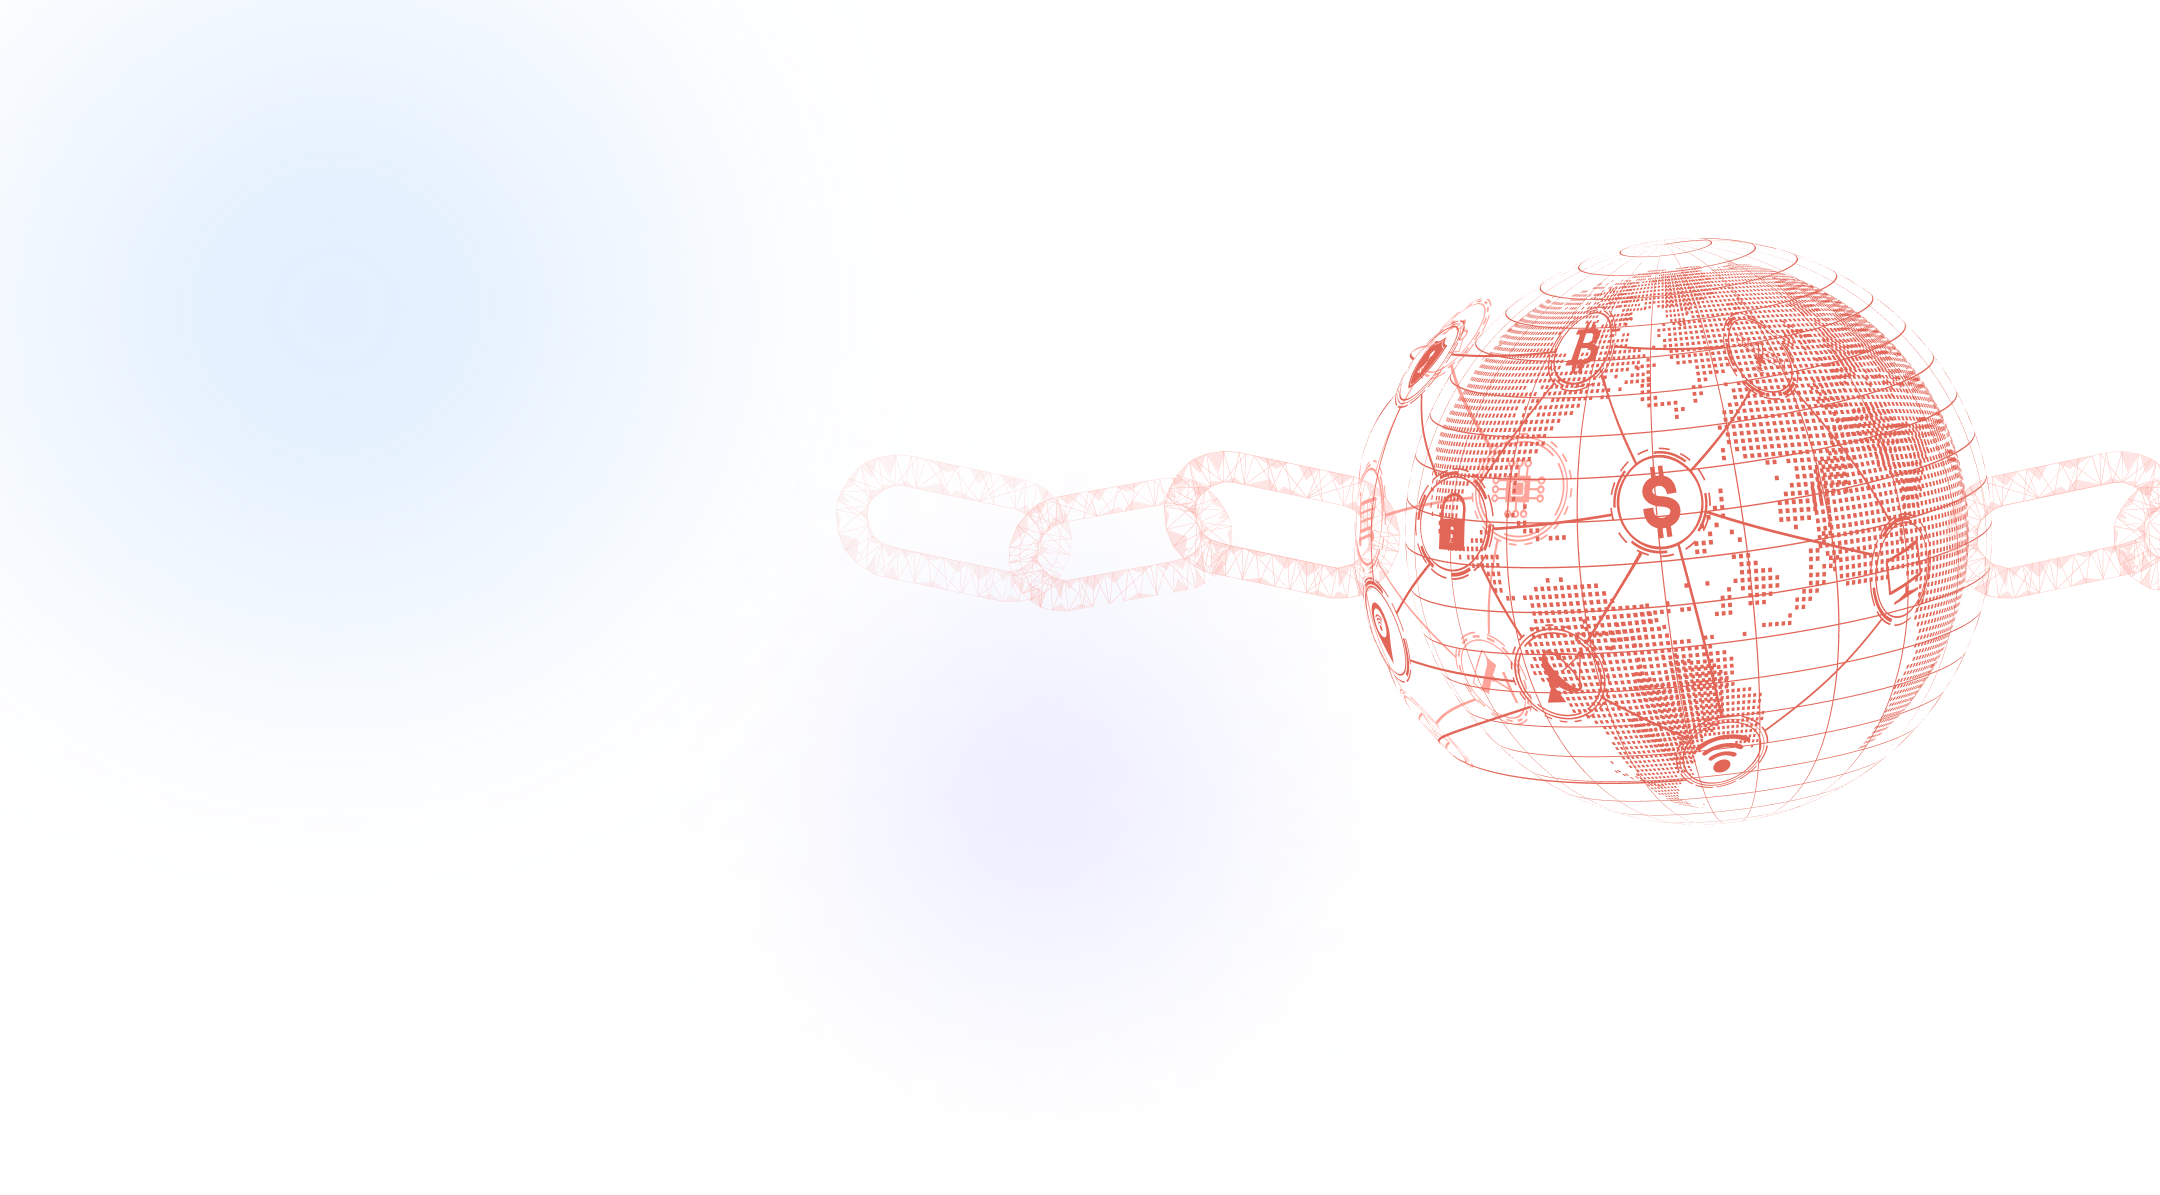
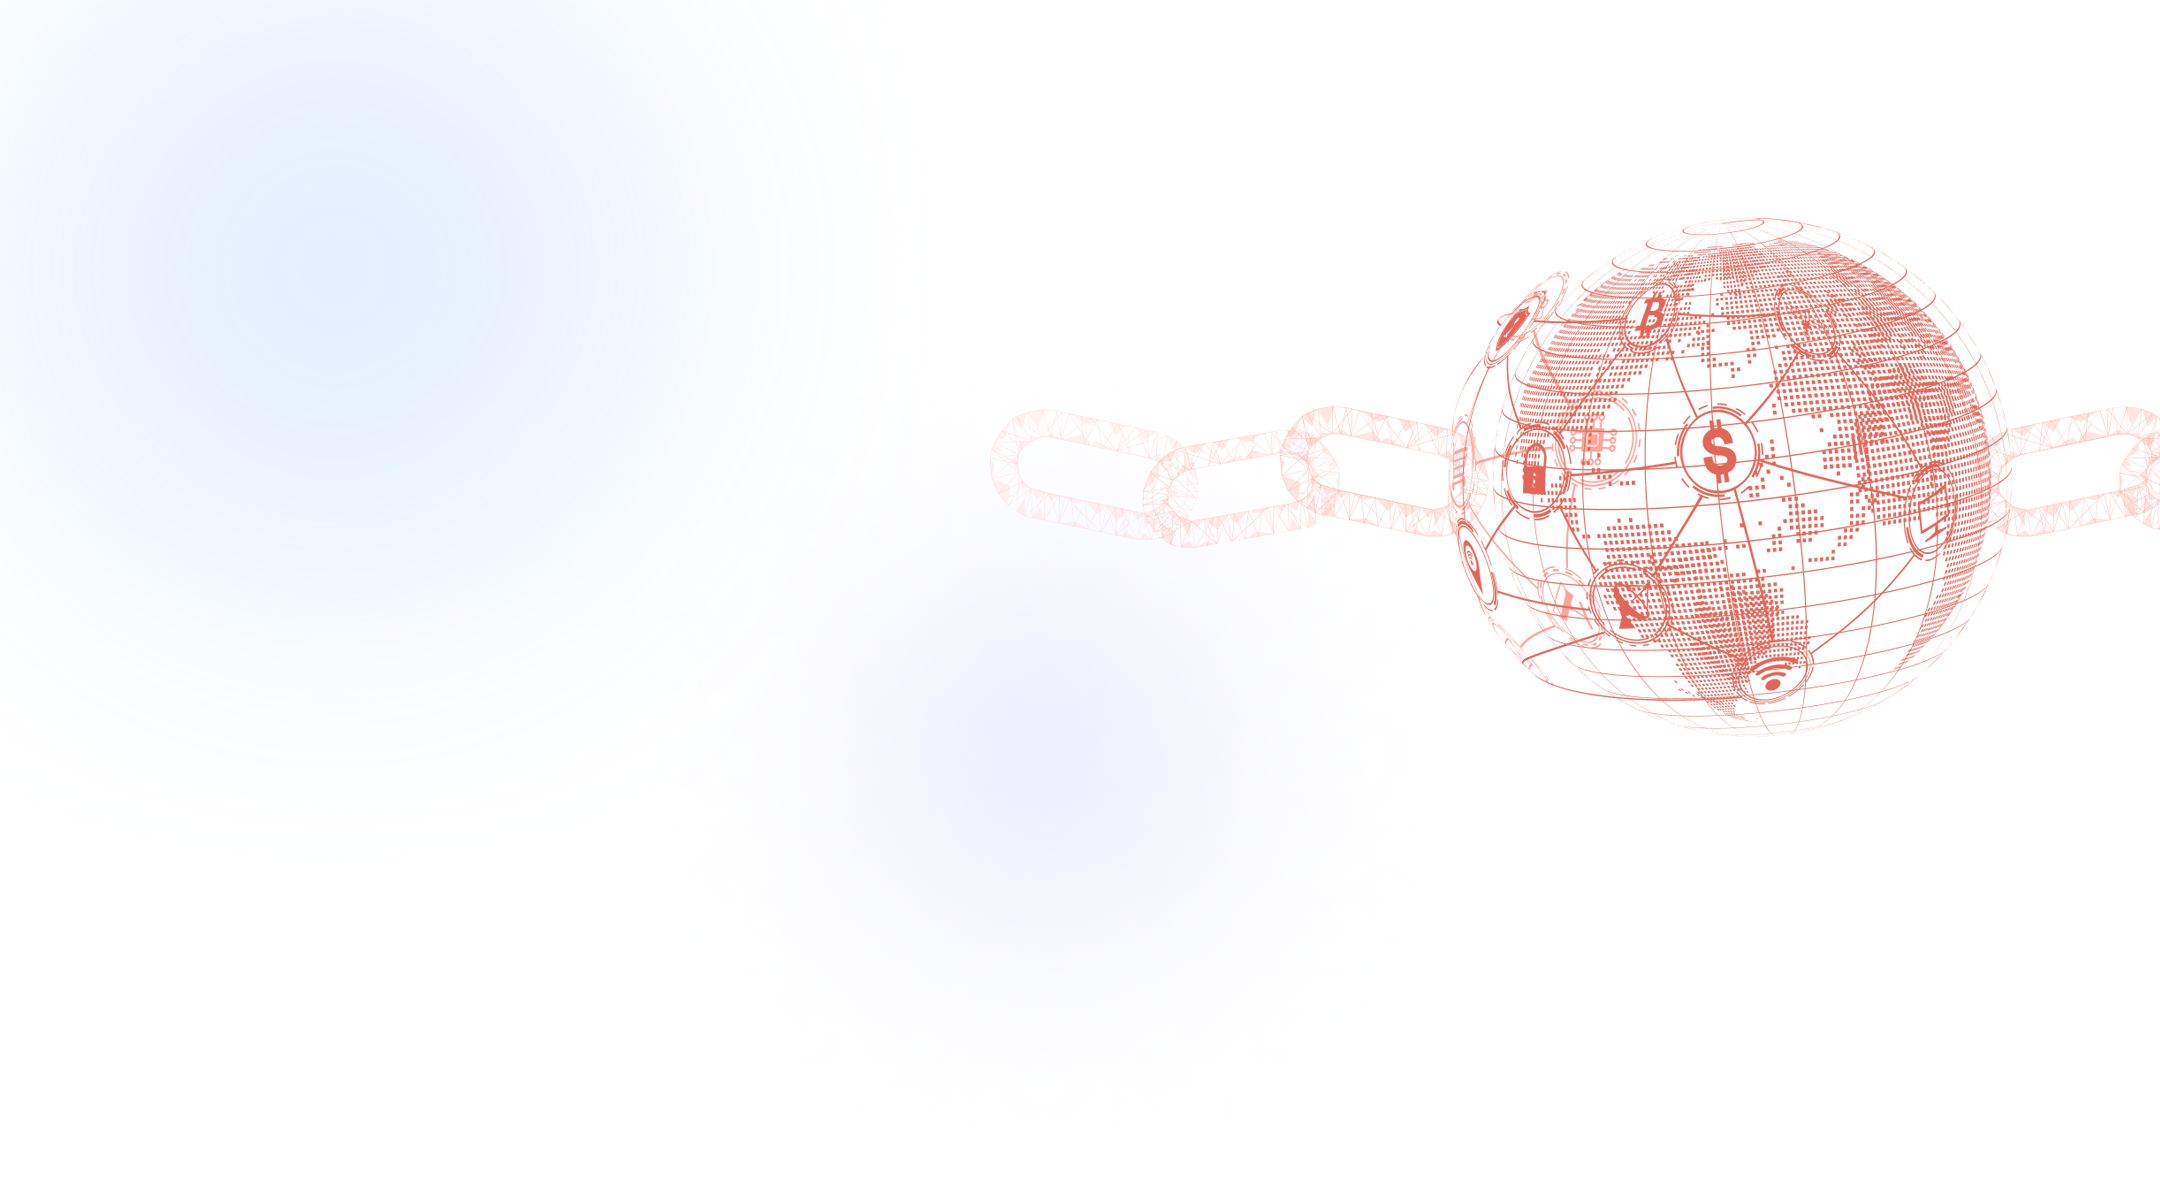
home page feature design changes

Changed region(s): [[0.5273, 0.1858, 1.0, 0.6812], [0.4653, 0.4335, 0.4963, 0.4954]]

diff --git a/components/home/section/Featured.js b/components/home/section/Featured.js
@@ -5,8 +5,10 @@ import { useRouter } from 'next/router';
 import PropTypes from 'prop-types';
 import i18next from 'i18next';
 
+
 import { Container, Row, Col } from 'react-bootstrap';
-import { Button, H1, Paragraph } from '@components';
+import { Button, H1, Paragraph, MyImage } from '@components';
+import images from '@components/images';
 
 export default function FeaturedSection(props) {
     const router = useRouter();
@@ -63,14 +65,202 @@ export default function FeaturedSection(props) {
                         </div>
                     </Col>
 
-                    <Col md={12} className="text-center mt-4">
+                    <Col md={12} className="text-center mt-4 featured-heading">
                         <h2 className="h2 secondary-text-color">
                             {t('home.featured')}
                         </h2>
                     </Col>
 
                     <div className="mt-4">
-                        <Row className="row-cols-2 row-cols-md-3 row-cols-lg-5 justify-content-center">
+                        <Row className="row-cols-2 row-cols-md-3 row-cols-lg-3 row-cols-xl-5 justify-content-center">
+                            <Col> 
+                            
+                            <div className="featured-box-container-new btn d-flex text-start flex-column  justify-content-between"> 
+                            
+                            <div className="featured-icon-new">   <MyImage
+                            src={images.featuredIcon1}
+                            alt=""
+                            width={112}
+                            height={112}
+                            layout="intrinsic"
+                            placeholder="blur"
+                            loading="lazy"
+                            
+                        />
+                         </div>
+                            
+                            <p> Hyperledger Development </p>
+                            
+                            <div> <MyImage
+                            src={images.purpleArrow}
+                            alt=""
+                            width={20}
+                            height={17}
+                            layout="intrinsic"
+                            placeholder="blur"
+                            loading="lazy"
+                        /> </div>
+
+                            
+                        
+
+                            
+                            </div>
+                            
+                            </Col>
+
+                            <Col> 
+                            
+                            <div className="featured-box-container-new btn d-flex text-start flex-column  justify-content-between"> 
+                            
+                            <div className="featured-icon-new">   <MyImage
+                            src={images.featuredIcon1}
+                            alt=""
+                            width={112}
+                            height={112}
+                            layout="intrinsic"
+                            placeholder="blur"
+                            loading="lazy"
+                            
+                        />
+                         </div>
+                            
+                            <p> Hyperledger Development </p>
+                            
+                            <div> <MyImage
+                            src={images.purpleArrow}
+                            alt=""
+                            width={20}
+                            height={17}
+                            layout="intrinsic"
+                            placeholder="blur"
+                            loading="lazy"
+                        /> </div>
+
+                            
+                        
+
+                            
+                            </div>
+                            
+                            </Col>
+
+
+                            <Col> 
+                            
+                            <div className="featured-box-container-new btn d-flex text-start flex-column  justify-content-between"> 
+                            
+                            <div className="featured-icon-new">   <MyImage
+                            src={images.featuredIcon1}
+                            alt=""
+                            width={112}
+                            height={112}
+                            layout="intrinsic"
+                            placeholder="blur"
+                            loading="lazy"
+                            
+                        />
+                         </div>
+                            
+                            <p> Hyperledger Development </p>
+                            
+                            <div> <MyImage
+                            src={images.purpleArrow}
+                            alt=""
+                            width={20}
+                            height={17}
+                            layout="intrinsic"
+                            placeholder="blur"
+                            loading="lazy"
+                        /> </div>
+
+                            
+                        
+
+                            
+                            </div>
+                            
+                            </Col>
+
+
+                            <Col> 
+                            
+                            <div className="featured-box-container-new btn d-flex text-start flex-column  justify-content-between"> 
+                            
+                            <div className="featured-icon-new">   <MyImage
+                            src={images.featuredIcon1}
+                            alt=""
+                            width={112}
+                            height={112}
+                            layout="intrinsic"
+                            placeholder="blur"
+                            loading="lazy"
+                            
+                        />
+                         </div>
+                            
+                            <p> Hyperledger Development </p>
+                            
+                            <div> <MyImage
+                            src={images.purpleArrow}
+                            alt=""
+                            width={20}
+                            height={17}
+                            layout="intrinsic"
+                            placeholder="blur"
+                            loading="lazy"
+                        /> </div>
+
+                            
+                        
+
+                            
+                            </div>
+                            
+                            </Col>
+
+
+                            <Col> 
+                            
+                            <div className="featured-box-container-new btn d-flex text-start flex-column  justify-content-between"> 
+                            
+                            <div className="featured-icon-new">   <MyImage
+                            src={images.featuredIcon1}
+                            alt=""
+                            width={112}
+                            height={112}
+                            layout="intrinsic"
+                            placeholder="blur"
+                            loading="lazy"
+                            
+                        />
+                         </div>
+                            
+                            <p> Hyperledger Development </p>
+                            
+                            <div> <MyImage
+                            src={images.purpleArrow}
+                            alt=""
+                            width={20}
+                            height={17}
+                            layout="intrinsic"
+                            placeholder="blur"
+                            loading="lazy"
+                        /> </div>
+
+                            
+                    
+                            
+                            </div>
+                            
+                            </Col>
+
+
+
+
+                           
+                        </Row>
+                        {/* <Row className="row-cols-2 row-cols-md-3 row-cols-lg-5 justify-content-center">
                             {_.map(featuresList, (item) => (
                                 <Col key={_.uniqueId()}>
                                     {item.link !== '#' ? (
@@ -88,7 +278,7 @@ export default function FeaturedSection(props) {
                                     )}
                                 </Col>
                             ))}
-                        </Row>
+                        </Row> */}
                     </div>
                 </Row>
             </Container>

diff --git a/styles/globals.scss b/styles/globals.scss
@@ -326,6 +326,7 @@ button:not(.collapsed) {
     padding-top: 250px;
     padding-bottom: 65px;
     background-size: cover;
+    background-position-x: right;
 }
 
 .featured-box-container {
@@ -346,6 +347,47 @@ button:not(.collapsed) {
         box-shadow: 0 1px 20px 0 rgba(50, 50, 50, 0.4);
     }
 }
+
+
+
+.featured-heading
+{
+    margin-top:110px !important;
+}
+
+.featured-box-container-new
+{
+    border: 1px solid #E7E5E5;
+    background: rgba(255, 255, 255, 0.53);
+    font-size: 24px;
+line-height: 30px;
+font-weight: 700;
+padding:25px;
+margin-top:40px;
+transition: all .5s;
+
+&:hover
+{
+    box-shadow: 20px 0px 35px rgba(115, 112, 112, 0.1), 0px 20px 35px rgba(120, 123, 126, 0.2);
+}
+
+p
+{
+    margin-bottom:30px;
+}
+
+.featured-icon-new
+{
+    margin-top:-60px;
+    margin-left:-30px;
+}
+
+
+
+}
+
+
+
 
 .heading-line {
     border-top: 2px solid color('secondary');

diff --git a/styles/globals-responsive.scss b/styles/globals-responsive.scss
@@ -54,6 +54,15 @@
         .featured-box-container {
             margin-bottom: 20px;
         }
+
+        .featured-box-container-new {
+            font-size: 20px;
+            line-height: 22px;
+            padding: 15px;
+            margin-bottom:20px;
+        }
+
+
     }
 
     .main-header {
@@ -507,8 +516,8 @@
     }
 
     .hero-banner-container {
-        background-position-x: right 50%;
-        background-position-y: top 50px;
+        background-position-x: right 40%;
+        background-position-y: top -40px;
         padding-top: 200px;
 
         .featured-box-container {
@@ -640,8 +649,8 @@
     }
 
     .hero-banner-container {
-        background-position-x: right 50%;
-        background-position-y: top 50px;
+        background-position-x: right 40%;
+        background-position-y: top -40px;
     }
 
     .main-header {

diff --git a/components/images/index.js b/components/images/index.js
@@ -52,7 +52,8 @@ import twitterSVG from '@public/assets/icons/twitter.svg';
 import uTubeSVG from '@public/assets/icons/youtube.svg';
 import wpSVG from '@public/assets/icons/wordpress.svg';
 import upArrow from '@public/assets/images/uparrow.png';
-import purpleArrow from '@public//assets/icons/purple-arrow.svg';
+import purpleArrow from '@public/assets/icons/purple-arrow.svg';
+import featuredIcon1 from '@public/assets/icons/hyperledger-deve-opment-icon.png';
 
 export default {
     homeSecTopImg,
@@ -110,4 +111,5 @@ export default {
     wpSVG,
     upArrow,
     purpleArrow,
+    featuredIcon1,
 };

diff --git a/styles/variables.scss b/styles/variables.scss
@@ -51,6 +51,15 @@ $colors: (
         #f5f9ff 62.44%,
         #ffffff 83.72%,
     ),
+
+    gradient-blue: (
+        180deg,
+        #4597FF 100%,
+        #72AEFA 100%,
+        #A1C8F9 100%,
+        ),
+
+    
     gradient-light: (
         180deg,
         #ffffff 2.5%,
